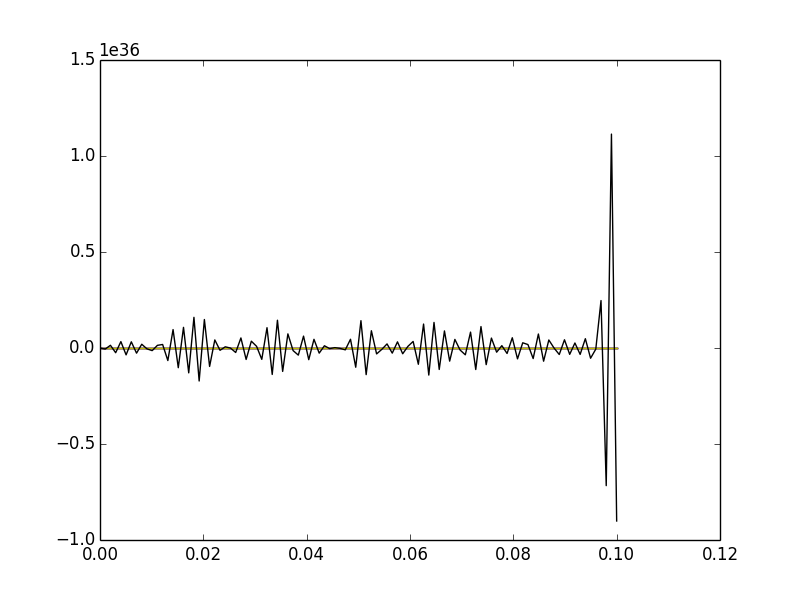
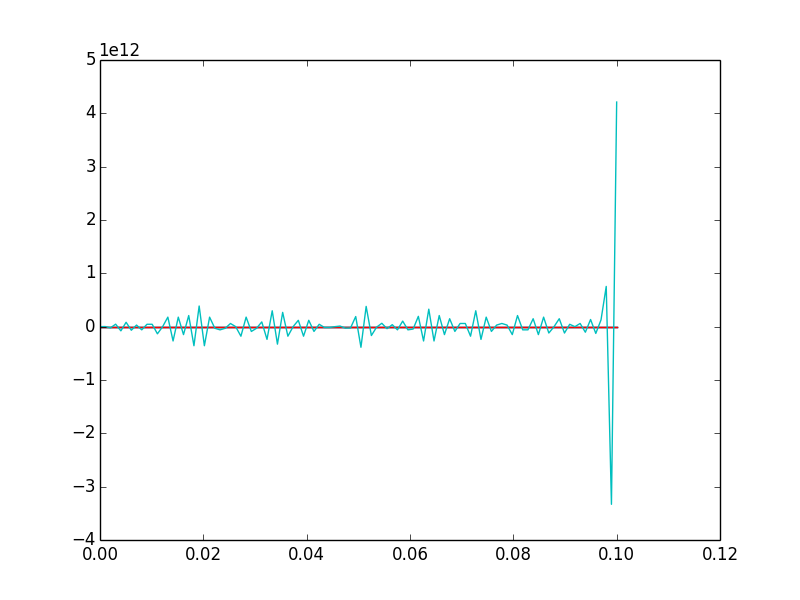
cambios

diff --git a/ejercicio1.cpp b/ejercicio1.cpp
@@ -55,8 +55,11 @@ void crear(float** psi, float tmax, float T, float ro, float L, float deltax, fl
             if(j==0 || i==0 || x == L){
                 psi[j][i] = 1e-4 * sin(2*M_PI*x/L);
             }
+            else if(j==1){
+                psi[j][i] = psi[j-1][i] + c*c/(2*cp*cp) * (psi[j-1][i+1] + psi[j-1][i-1] - 2* psi[j-1][i]);
+            }
             else{
-                psi[j][i] = 2*psi[j-1][i] - psi[j-1][i] + pow(c,2)/pow(cp,2) * ( psi[j-1][i+1] + psi[j-1][i-1] - 2*psi[j-1][i]);
+                psi[j][i] = 2*psi[j-1][i] - psi[j-2][i] + pow(c,2)/pow(cp,2) * ( psi[j-1][i+1] + psi[j-1][i-1] - 2*psi[j-1][i]);
             }
             x+=deltax;
         }

diff --git a/ejercicio.py b/ejercicio.py
@@ -2,6 +2,6 @@ from numpy import *
 from matplotlib.pylab import *
 
 matriz = loadtxt("datos.txt")
-for i in range(len(matriz[:,0])):
+for i in range(4):
     plot( linspace(0,0.1, len(matriz[i,:])), matriz[i,:])
 savefig("ejercicio.png")
